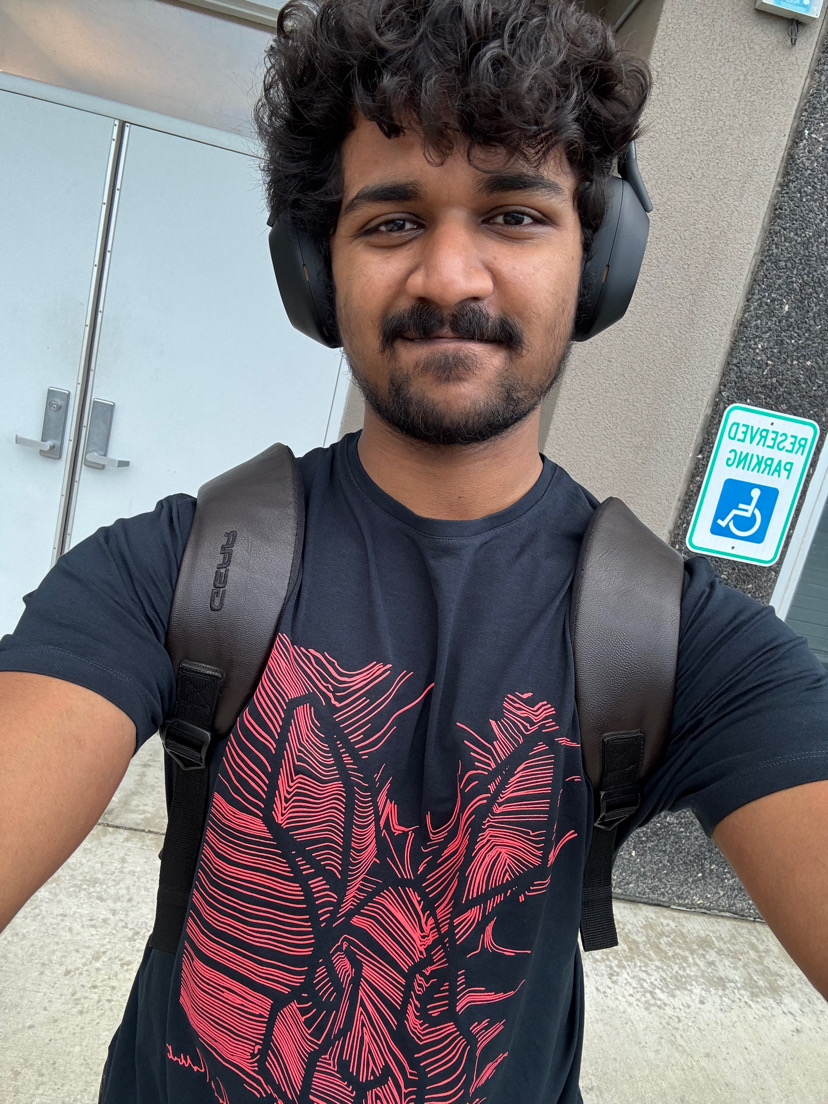
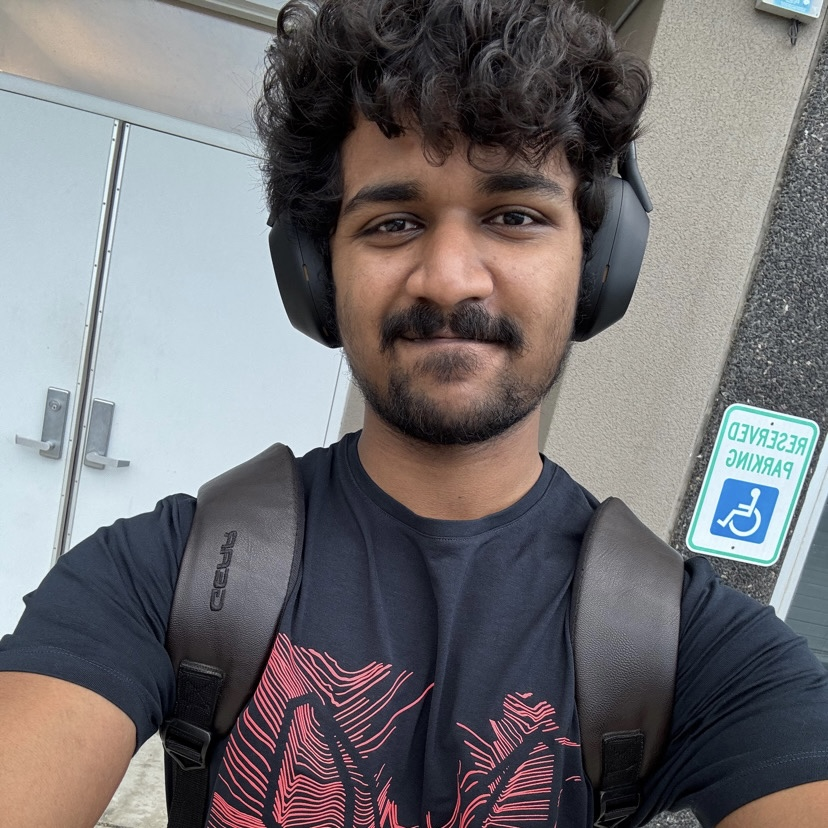
New project added and terminal update.

diff --git a/src/components/sections/About.tsx b/src/components/sections/About.tsx
@@ -1,77 +1,62 @@
 import { Heart, Code2, BarChart3 } from 'lucide-react';
+import { about } from '@/lib/data';
+
+const iconMap = {
+    Code2: <Code2 size={20} />,
+    BarChart3: <BarChart3 size={20} />,
+};
 
 export default function About() {
     return (
         <section id="about" className="py-20 px-4 sm:px-6 lg:px-8 border-t border-gray-800">
             <div className="max-w-6xl mx-auto">
-
                 <div className="grid grid-cols-1 lg:grid-cols-2 gap-12 items-center">
 
-                    {/* Left Column: The "Jack of All Trades" Philosophy */}
                     <div>
-                        <h2 className="text-3xl font-bold text-white mb-6">
-                            More Than Just Code
-                        </h2>
-                        <p className="text-lg text-gray-400 mb-6 leading-relaxed">
-                            I define myself as a <span className="font-semibold text-green-400">product-minded engineer</span>.
-                            While my core strength lies in full-stack development, I don&#39;t stop at the code.
-                        </p>
-                        <p className="text-lg text-gray-400 mb-8 leading-relaxed">
-                            My background in <strong>Data Analytics</strong> allows me to understand the <em>business impact</em> of what I build,
-                            while my experience in <strong>Mobile (React Native)</strong> ensures those solutions reach users anywhere.
-                            I thrive in environments where I can wear multiple hats and solve problems holistically. The vast skill set I bring
-                            is really something I am proud of... As one says, &#34;I am a jack of all trades&#34;.
-                        </p>
+                        <h2 className="text-3xl font-bold text-white mb-6">{about.heading}</h2>
+                        {about.paragraphs.map((para, i) => (
+                            <p
+                                key={i}
+                                className="text-lg text-gray-400 mb-6 leading-relaxed"
+                                dangerouslySetInnerHTML={{ __html: para }}
+                            />
+                        ))}
 
-                        {/* Quick Stats / Highlights */}
                         <div className="grid grid-cols-2 gap-4">
-                            <div className="p-4 bg-gray-900 rounded border border-gray-800 hover:border-green-500 transition-colors">
-                                <div className="flex items-center gap-2 mb-2">
-                                    <Code2 className="text-green-400" size={20} />
-                                    <span className="font-bold text-white">Engineering</span>
+                            {about.highlights.map((h) => (
+                                <div
+                                    key={h.title}
+                                    className={`p-4 bg-gray-900 rounded border border-gray-800 ${h.borderHover} transition-colors`}
+                                >
+                                    <div className="flex items-center gap-2 mb-2">
+                                        <span className={h.color}>
+                                            {iconMap[h.icon as keyof typeof iconMap]}
+                                        </span>
+                                        <span className="font-bold text-white">{h.title}</span>
+                                    </div>
+                                    <p className="text-sm text-gray-400">{h.description}</p>
                                 </div>
-                                <p className="text-sm text-gray-400">Scalable Web & Mobile Apps</p>
-                            </div>
-                            <div className="p-4 bg-gray-900 rounded border border-gray-800 hover:border-blue-400 transition-colors">
-                                <div className="flex items-center gap-2 mb-2">
-                                    <BarChart3 className="text-blue-400" size={20} />
-                                    <span className="font-bold text-white">Analytics</span>
-                                </div>
-                                <p className="text-sm text-gray-400">Tableau & Python Data Viz</p>
-                            </div>
+                            ))}
                         </div>
                     </div>
 
-                    {/* Right Column: The "Personal Touch" (Hobbies) */}
                     <div className="relative">
-                        {/* Decorative background blob */}
                         <div className="absolute inset-0 bg-gradient-to-tr from-green-500/10 to-blue-500/10 rounded-lg transform -z-10" />
-
                         <div className="bg-gray-900 p-8 rounded-lg border border-gray-800">
                             <div className="flex items-center gap-3 mb-6">
                                 <Heart className="text-red-500 fill-red-500" size={24} />
-                                <h3 className="text-xl font-bold text-white">When I&#39;m AFK</h3>
+                                <h3 className="text-xl font-bold text-white">{about.afkHeading}</h3>
                             </div>
-
                             <ul className="space-y-4">
-                                <li className="flex items-start gap-3">
-                                    <span className="flex-shrink-0 w-1.5 h-1.5 rounded-full bg-green-400 mt-2.5" />
-                                    <span className="text-gray-400">
-                        <strong className="text-white">Football/Soccer:</strong> I love playing football with my friends. I love to dictate the play in general but am as versatile as a player can be with ability to play in any position.
-                      </span>
-                                </li>
-                                <li className="flex items-start gap-3">
-                                    <span className="flex-shrink-0 w-1.5 h-1.5 rounded-full bg-green-400 mt-2.5" />
-                                    <span className="text-gray-400">
-                        <strong className="text-white">Gaming:</strong> Big fan of strategy games. They keep my problem-solving skills sharp even when relaxing.
-                      </span>
-                                </li>
-                                <li className="flex items-start gap-3">
-                                    <span className="flex-shrink-0 w-1.5 h-1.5 rounded-full bg-green-400 mt-2.5" />
-                                    <span className="text-gray-400">
-                        <strong className="text-white">Cooking:</strong> I enjoy experimenting with new recipes, different cuisines and styles. It&#39;s the only time I don&#39;t strictly follow documentation and give it my own touch :)
-                      </span>
-                                </li>
+                                {about.hobbies.map((hobby) => (
+                                    <li key={hobby.title} className="flex items-start gap-3">
+                                        <span className="flex-shrink-0 w-1.5 h-1.5 rounded-full bg-green-400 mt-2.5" />
+                                        <span className="text-gray-400">
+                                            <strong className="text-white">{hobby.title}:</strong>{' '}
+                                            {hobby.description}
+                                        </span>
+                                    </li>
+                                ))}
                             </ul>
                         </div>
                     </div>

diff --git a/src/lib/data.ts b/src/lib/data.ts
@@ -34,10 +34,12 @@ export const skills = {
     ],
     backend: ["Node.js", "Express", "Flask", "PostgreSQL", "MySQL", "MongoDB", "Cassandra", "Neo4j"],
     tools: [
+        "Claude Code",
         "Git",
         "GitHub",
         "AWS S3",
         "Docker",
+        "Kubernetes",
         "Firebase",
         "Vercel",
         "Render",
@@ -64,6 +66,18 @@ export const experience = [
 ];
 
 export const projects = [
+    {
+        title: "volumeMixer",
+        year: "2026",
+        description:
+            "A sophisticated macOS menu bar utility that grants independent volume control for individual applications. Leveraging low-level Core Audio Tap (CATap) APIs, it allows users to mix audio sources seamlessly without affecting system-wide levels.",
+        tags: ["Swift", "SwiftUI", "Core Audio", "macOS", "CATap"],
+        links: {
+            // Add your deployed link here later if you release a dmg/app
+            code: "https://github.com/pavan-sai-ch/volumeMixer",
+        },
+        image: "/images/projects/volume-mixer.png",
+    },
     {
         title: "The Daily Wag",
         year: "2025",
@@ -119,6 +133,48 @@ export const projects = [
     },
 
 ];
+
+export const about = {
+    heading: "More Than Just Code",
+    paragraphs: [
+        `I define myself as a <strong>product-minded engineer</strong>. While my core strength lies in full-stack development, I don't stop at the code.`,
+        `My background in <strong>Data Analytics</strong> allows me to understand the <em>business impact</em> of what I build, while my experience in <strong>Mobile (React Native)</strong> ensures those solutions reach users anywhere. I thrive in environments where I can wear multiple hats and solve problems holistically. The vast skill set I bring is really something I am proud of... As one says, "I am a jack of all trades".`,
+    ],
+    highlights: [
+        {
+            icon: "Code2",
+            color: "text-green-400",
+            borderHover: "hover:border-green-500",
+            title: "Engineering",
+            description: "Scalable Web & Mobile Apps",
+        },
+        {
+            icon: "BarChart3",
+            color: "text-blue-400",
+            borderHover: "hover:border-blue-400",
+            title: "Analytics",
+            description: "Tableau & Python Data Viz",
+        },
+    ],
+    afkHeading: "When I'm AFK",
+    hobbies: [
+        {
+            title: "Football/Soccer",
+            description:
+                "I love playing football with my friends. I love to dictate the play in general but am as versatile as a player can be with ability to play in any position.",
+        },
+        {
+            title: "Gaming",
+            description:
+                "Big fan of strategy games. They keep my problem-solving skills sharp even when relaxing.",
+        },
+        {
+            title: "Cooking",
+            description:
+                "I enjoy experimenting with new recipes, different cuisines and styles. It's the only time I don't strictly follow documentation and give it my own touch :)",
+        },
+    ],
+};
 
 // Terminal CLI Configuration
 export const cliConfig = {

diff --git a/src/components/sections/Terminal.tsx b/src/components/sections/Terminal.tsx
@@ -9,6 +9,8 @@ export default function Terminal() {
         { type: "output", content: cliConfig.welcomeMessage },
     ]);
     const [input, setInput] = useState("");
+    const [history, setHistory] = useState<string[]>([]);
+    const [historyIndex, setHistoryIndex] = useState(-1);
     const terminalRef = useRef<HTMLDivElement>(null);
     const inputRef = useRef<HTMLInputElement>(null);
 
@@ -62,6 +64,10 @@ Projects: ${projects.length} projects`;
 Frontend: ${skills.frontend.join(", ")}
 Backend: ${skills.backend.join(", ")}
 Tools: ${skills.tools.join(", ")}`;
+            case "projects":
+                return projects.map(p => `${p.title}: ${p.tags.join(", ")}`).join("\n");
+            case "experience":
+                return experience.map(e => `${e.role} @ ${e.company}`).join("\n");
             case "contact":
                 return `Email: ${personalInfo.email}
 LinkedIn: ${personalInfo.links.linkedin}
@@ -95,7 +101,27 @@ Resume: ${personalInfo.links.resume}`;
         }
 
         setLines(newLines);
+        setHistory(prev => [input.trim(), ...prev]);
+        setHistoryIndex(-1);
         setInput("");
+    };
+
+    const handleKeyDown = (e: React.KeyboardEvent<HTMLInputElement>) => {
+        if (e.key === "ArrowUp") {
+            e.preventDefault();
+            setHistoryIndex(prev => {
+                const next = Math.min(prev + 1, history.length - 1);
+                setInput(history[next] ?? "");
+                return next;
+            });
+        } else if (e.key === "ArrowDown") {
+            e.preventDefault();
+            setHistoryIndex(prev => {
+                const next = prev - 1;
+                setInput(next < 0 ? "" : history[next] ?? "");
+                return Math.max(next, -1);
+            });
+        }
     };
 
     return (
@@ -129,6 +155,7 @@ Resume: ${personalInfo.links.resume}`;
                             type="text"
                             value={input}
                             onChange={(e) => setInput(e.target.value)}
+                            onKeyDown={handleKeyDown}
                             onFocus={() => inputRef.current?.focus()}
                             className="flex-1 bg-transparent text-green-400 outline-none font-mono terminal-input"
                             placeholder="Type command here..."